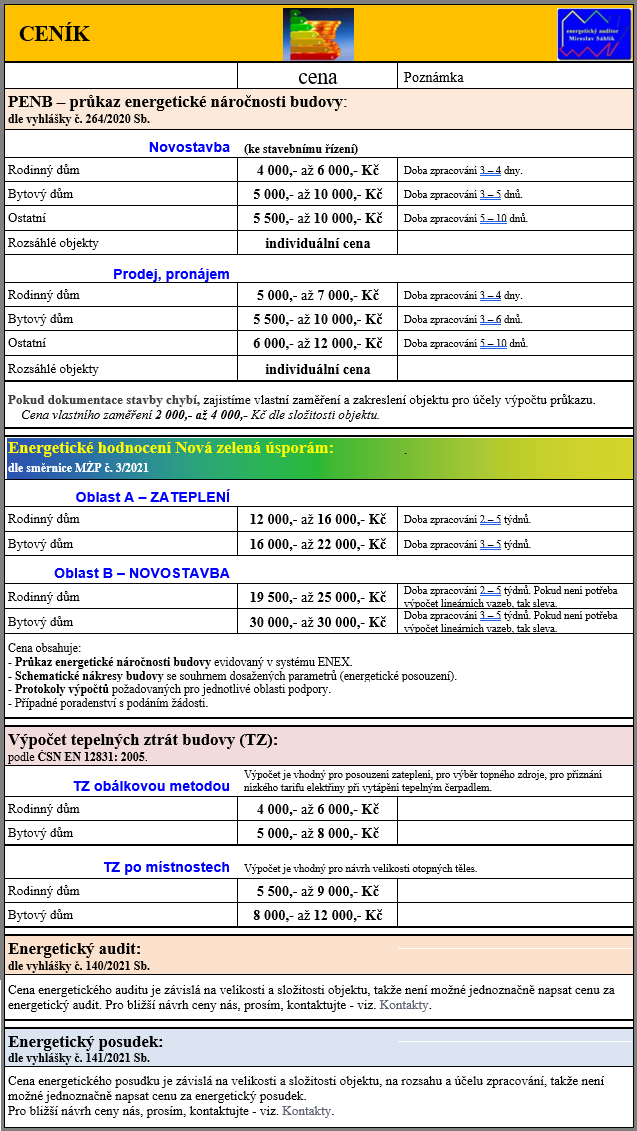
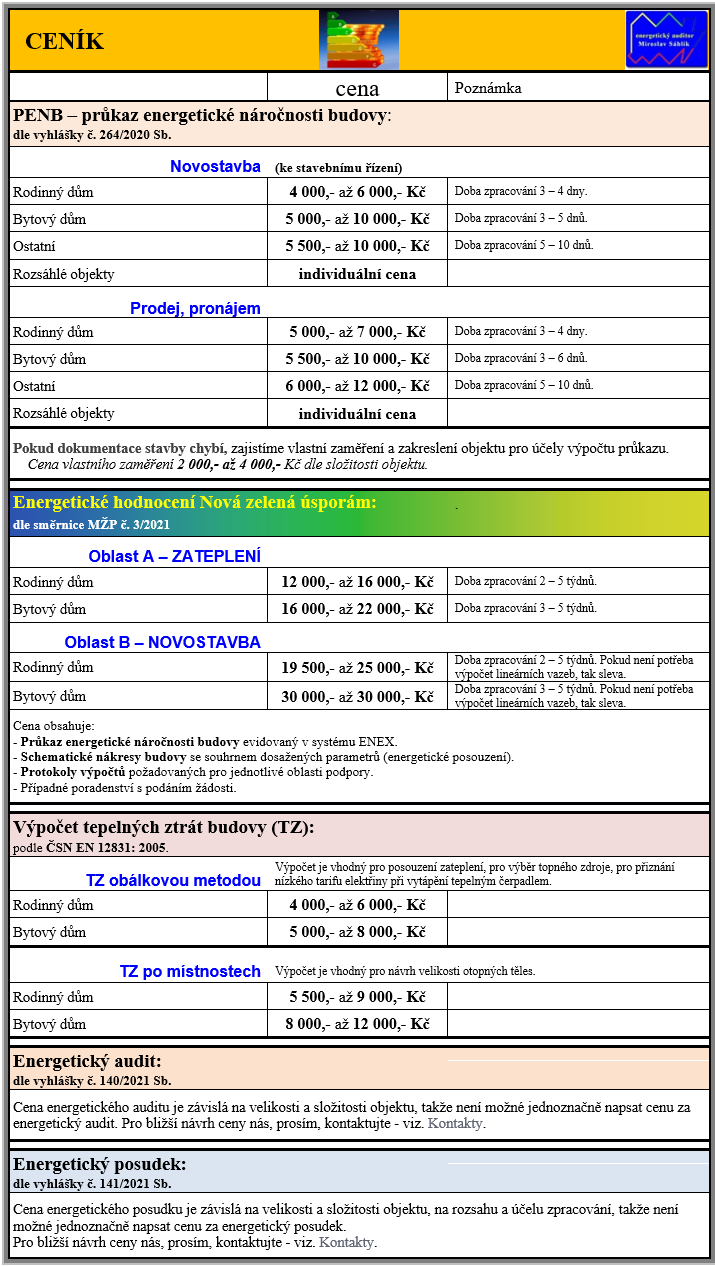
Add files via upload

Changed region(s): [[0.0, 0.0, 1.0, 1.0]]

diff --git a/dfm2html.css b/dfm2html.css
@@ -397,8 +397,8 @@ div,span,img,a,form,body,label {border-width:1px;border-color:black}
 .Link47_nm {background-image:url('Link47_nm.gif'); }
 .Link54_nm {border-width:1px; border-left-style:none; border-right-style:none; border-bottom-style:none; }
 .Link50_nm {background-image:url('Link50_nm.gif'); }
+.Link370_nm {color:#9E7947; font-family:"Book Antiqua"; font-size:14px; font-weight:bold; line-height:180%; text-align:left; text-decoration:none; text-indent:16px; vertical-align:middle; cursor:pointer; }
 .Link38_nm {background-image:url('Link38_nm.gif'); }
-.Link367_nm {background-image:url('Link367_nm.gif'); border-right-style:solid; }
 .Link368_nm {background-image:url('Link368_nm.png'); }
 .Link369_nm {color:Blue; font-family:"Times New Roman"; font-size:12px; }
 .Link42_nm {background-image:url('Image25_nm.png'); }
@@ -429,45 +429,45 @@ div,span,img,a,form,body,label {border-width:1px;border-color:black}
 .Link62_nm {border-width:4px; border-style:double; }
 .Link63_nm {border-width:4px; border-style:double; }
 .Link64_nm {border-width:4px; border-style:double; }
-.Link366_nm {background-color:#AAF3FF; background-image:url('Link127_nm.png'); background-repeat:repeat-x; color:White; padding:0px; text-align:left; text-decoration:none; }
+.Link367_nm {background-image:url('Link367_nm.gif'); border-right-style:solid; }
 .Link336_nm {border-right-style:solid; }
 .Link337_nm {background-image:url('Image70_nm.gif'); }
-.Link332_nm {border-right-style:solid; }
 .Link334_nm {background-image:url('Link164_nm.gif'); }
-.Link340_nm {color:#49630E; font-size:10px; font-weight:bold; }
 .Link341_nm {color:#49630E; font-size:10px; font-weight:bold; }
+.Link343_nm {color:Blue; font-family:"Times New Roman"; font-size:12px; }
 .Link339_nm {background-image:url('Image71_nm.gif'); }
 .Link34_nm {background-image:url('Link34_nm.gif'); }
+.Link340_nm {color:#49630E; font-size:10px; font-weight:bold; }
 .Link325_nm {color:Blue; font-family:"Times New Roman"; font-size:12px; }
-.Link321_nm {background-image:url('Image71_nm.gif'); }
+.Link327_nm {border-style:solid; border-left-width:1px; border-left-style:none; border-bottom-style:none; border-top-style:none; }
 .Link322_nm {background-image:url('Image103_nm.png'); }
 .Link323_nm {color:Blue; font-family:"Times New Roman"; font-size:12px; }
 .Link330_nm {color:#FF5F00; font-family:"Times New Roman"; font-size:14px; font-weight:bold; text-decoration:underline; }
 .Link331_nm {border-right-style:solid; }
-.Link327_nm {border-style:solid; border-left-width:1px; border-left-style:none; border-bottom-style:none; border-top-style:none; }
+.Link332_nm {border-right-style:solid; }
 .Link328_nm {border-style:solid; border-left-width:1px; border-left-style:none; border-bottom-style:none; border-top-style:none; }
-.Link343_nm {color:Blue; font-family:"Times New Roman"; font-size:12px; }
-.Link358_nm {border-width:1px; border-left-style:none; border-right-style:none; border-bottom-style:none; }
+.Link344_nm {background-image:url('Image77_nm.png'); }
 .Link359_nm {border-width:1px; border-left-style:none; border-right-style:none; border-bottom-style:none; }
-.Link36_nm {color:#9E7947; font-family:"Book Antiqua"; font-size:12px; font-weight:bold; line-height:187%; text-align:left; text-decoration:none; text-indent:11px; vertical-align:middle; cursor:pointer; }
-.Link355_nm {border-style:solid; border-left-width:1px; border-bottom-style:none; border-top-style:none; }
+.Link36_nm {color:#9E7947; font-family:"Book Antiqua"; font-size:14px; font-weight:bold; line-height:180%; text-align:left; text-decoration:none; text-indent:16px; vertical-align:middle; cursor:pointer; }
+.Link360_nm {border-left-style:none; }
 .Link356_nm {border-width:1px; border-left-style:none; border-right-style:none; border-bottom-style:none; }
 .Link357_nm {border-width:1px; border-left-style:none; border-right-style:none; border-bottom-style:none; }
-.Link363_nm {background-color:#ABF4FF; background-image:url('Link127_nm.png'); background-repeat:repeat-x; color:White; padding:1px; text-align:left; text-decoration:none; }
+.Link358_nm {border-width:1px; border-left-style:none; border-right-style:none; border-bottom-style:none; }
 .Link364_nm {background-color:#ABF4FF; background-image:url('Link127_nm.png'); background-repeat:repeat-x; color:White; padding:0px; text-align:left; text-decoration:none; }
 .Link365_nm {background-color:#33DBFF; background-image:url('Link127_nm.png'); background-repeat:repeat-x; color:White; text-align:left; text-decoration:none; }
-.Link360_nm {border-left-style:none; }
+.Link366_nm {background-color:#AAF3FF; background-image:url('Link127_nm.png'); background-repeat:repeat-x; color:White; padding:0px; text-align:left; text-decoration:none; }
 .Link361_nm {border-right-style:solid; }
 .Link362_nm {color:#9E7947; font-family:"Book Antiqua"; font-size:14px; font-weight:bold; line-height:180%; text-align:left; text-decoration:none; text-indent:16px; vertical-align:middle; cursor:pointer; }
-.Link347_nm {color:Blue; font-family:"Times New Roman"; font-size:12px; }
+.Link363_nm {background-color:#ABF4FF; background-image:url('Link127_nm.png'); background-repeat:repeat-x; color:White; padding:1px; text-align:left; text-decoration:none; }
 .Link348_nm {background-image:url('Image103_nm.png'); }
 .Link349_nm {color:Blue; font-family:"Times New Roman"; font-size:12px; }
-.Link344_nm {background-image:url('Image77_nm.png'); }
 .Link345_nm {background-image:url('Image77_nm.png'); }
 .Link346_nm {color:Blue; font-family:"Times New Roman"; font-size:12px; }
-.Link352_nm {border-width:1px; border-left-style:solid; border-right-style:solid; border-bottom-style:none; }
+.Link347_nm {color:Blue; font-family:"Times New Roman"; font-size:12px; }
 .Link353_nm {border-style:solid; border-left-width:1px; border-bottom-style:none; border-top-style:none; }
 .Link354_nm {border-width:1px; border-left-style:solid; border-right-style:solid; border-bottom-style:solid; }
+.Link355_nm {border-style:solid; border-left-width:1px; border-bottom-style:none; border-top-style:none; }
+.Link352_nm {border-width:1px; border-left-style:solid; border-right-style:solid; border-bottom-style:none; }
 .Panel30_nm {border:1px #6F9B1C solid; border-bottom-color:#6F9B1C; border-bottom-style:solid; margin:0px; padding:0px; }
 .Panel31_nm {border:1px #6F9B1C solid; border-bottom-color:#6F9B1C; border-bottom-style:solid; margin:0px; padding:0px; }
 .Panel32_nm {border-bottom-width:2px; border-bottom-style:solid; border-top-style:solid; }
@@ -542,6 +542,7 @@ div,span,img,a,form,body,label {border-width:1px;border-color:black}
 .Page16_nm {background-image:url('Page8_nm.png'); background-repeat:repeat; }
 .Page2_nm {background-color:White; border-color:#6F9B1C; border-style:none; border-right-style:solid; border-bottom-color:#6F9B1C; }
 .Page3_nm {background-color:White; border-color:#6F9B1C; border-style:none; }
+.Link321_nm {background-image:url('Image71_nm.gif'); }
 .Link201_nm {border-width:1px; border-left-style:none; border-right-style:none; border-bottom-style:none; }
 .Link202_nm {background-image:url('Link202_nm.png'); }
 .Link2_nm {background-image:url('Image25_nm.png'); }
@@ -566,9 +567,9 @@ div,span,img,a,form,body,label {border-width:1px;border-color:black}
 .Link220_nm {background-image:url('Image51_nm.png'); }
 .Link221_nm {background-image:url('Image51_nm.png'); }
 .Link222_nm {background-image:url('Image51_nm.png'); }
-.Link229_nm {color:#9E7947; font-family:"Book Antiqua"; font-size:12px; font-weight:bold; line-height:187%; text-align:left; text-decoration:none; text-indent:11px; vertical-align:middle; cursor:pointer; }
 .Link23_nm {border-width:1px; border-left-style:none; border-right-style:none; border-bottom-style:none; }
 .Link230_nm {color:#49630E; font-size:10px; font-weight:bold; }
+.Link231_nm {color:#49630E; font-size:10px; font-weight:bold; }
 .Link226_nm {color:Blue; font-family:"Times New Roman"; font-size:12px; }
 .Link227_nm {color:Blue; font-family:"Times New Roman"; font-size:12px; }
 .Link228_nm {color:Blue; font-family:"Times New Roman"; font-size:12px; }
@@ -610,74 +611,73 @@ div,span,img,a,form,body,label {border-width:1px;border-color:black}
 .Link183_nm {border-style:solid; border-left-width:1px; border-left-style:none; border-bottom-style:none; border-top-style:none; }
 .Link168_nm {border-style:solid; border-left-width:1px; border-left-style:none; border-bottom-style:none; border-top-style:none; }
 .Link169_nm {background-image:url('Link169_nm.gif'); }
-.Link17_nm {color:#9E7947; font-family:"Book Antiqua"; font-size:14px; font-weight:bold; line-height:180%; text-align:left; text-decoration:none; text-indent:16px; vertical-align:middle; cursor:pointer; }
+.Link17_nm {color:#9E7947; font-family:"Book Antiqua"; font-size:14px; font-weight:bold; letter-spacing:normal; line-height:188%; text-align:left; text-decoration:none; text-indent:12px; vertical-align:middle; cursor:pointer; }
 .Link166_nm {border-style:solid; border-left-width:1px; border-left-style:none; border-bottom-style:none; border-top-style:none; }
 .Link173_nm {color:#FF5F00; font-family:"Times New Roman"; font-size:14px; font-weight:bold; text-decoration:underline; }
 .Link172_nm {border-style:solid; border-left-width:1px; border-left-style:none; border-bottom-style:none; border-top-style:none; }
-.Link290_nm {background-image:url('Link367_nm.gif'); border-right-style:solid; }
 .Link292_nm {color:#49630E; font-size:10px; font-weight:bold; }
-.Link288_nm {background-image:url('Image31_nm.png'); }
+.Link293_nm {color:#49630E; font-size:10px; font-weight:bold; }
 .Link289_nm {background-image:url('Link202_nm.png'); }
+.Link290_nm {background-image:url('Link367_nm.gif'); border-right-style:solid; }
 .Link297_nm {background-image:url('Image103_nm.png'); }
 .Link298_nm {color:Blue; font-family:"Times New Roman"; font-size:12px; }
-.Link293_nm {color:#49630E; font-size:10px; font-weight:bold; }
+.Link299_nm {background-image:url('Link299_nm.png'); }
 .Link295_nm {border-right-style:solid; }
-.Link28_nm {background-image:url('Link28_nm.jpg'); }
 .Link280_nm {color:Blue; font-family:"Times New Roman"; font-size:12px; }
 .Link281_nm {color:Blue; font-family:"Times New Roman"; font-size:12px; }
-.Link277_nm {color:#49630E; font-size:10px; font-weight:bold; }
-.Link279_nm {border-right-style:solid; }
-.Link285_nm {color:Blue; font-family:"Times New Roman"; font-size:12px; }
-.Link287_nm {color:Blue; font-family:"Times New Roman"; font-size:12px; }
 .Link282_nm {color:#FF5F00; font-family:"Times New Roman"; font-size:14px; font-weight:bold; text-decoration:underline; }
-.Link299_nm {background-image:url('Link299_nm.png'); }
-.Link312_nm {border-style:solid; border-left-width:1px; border-left-style:none; border-bottom-style:none; border-top-style:none; }
+.Link279_nm {border-right-style:solid; }
+.Link28_nm {background-image:url('Link28_nm.jpg'); }
+.Link287_nm {color:Blue; font-family:"Times New Roman"; font-size:12px; }
+.Link288_nm {background-image:url('Image31_nm.png'); }
+.Link285_nm {color:Blue; font-family:"Times New Roman"; font-size:12px; }
 .Link314_nm {color:#FF5F00; font-family:"Times New Roman"; font-size:14px; font-weight:bold; text-decoration:underline; }
-.Link31_nm {border-width:1px; border-left-style:none; border-right-style:none; border-bottom-style:none; }
+.Link315_nm {background-image:url('Link202_nm.png'); }
 .Link310_nm {border-right-style:solid; }
 .Link311_nm {border-style:solid; border-left-width:1px; border-left-style:none; border-bottom-style:none; border-top-style:none; }
-.Link318_nm {background-image:url('Link213_nm.png'); border-right-style:solid; }
+.Link312_nm {border-style:solid; border-left-width:1px; border-left-style:none; border-bottom-style:none; border-top-style:none; }
 .Link319_nm {background-image:url('Image70_nm.gif'); }
-.Link315_nm {background-image:url('Link202_nm.png'); }
 .Link316_nm {border-right-style:solid; }
 .Link317_nm {background-image:url('Link164_nm.gif'); }
+.Link318_nm {background-image:url('Link213_nm.png'); border-right-style:solid; }
+.Link304_nm {background-image:url('Image53_nm.png'); }
 .Link30_nm {border-style:solid; border-left-width:1px; border-left-style:none; border-bottom-style:none; border-top-style:none; }
 .Link300_nm {background-image:url('Link300_nm.png'); }
-.Link307_nm {background-image:url('Image88_nm.png'); }
 .Link308_nm {background-image:url('Image88_nm.png'); }
 .Link309_nm {background-image:url('Image88_nm.png'); }
-.Link304_nm {background-image:url('Image53_nm.png'); }
+.Link31_nm {border-width:1px; border-left-style:none; border-right-style:none; border-bottom-style:none; }
 .Link305_nm {background-image:url('Link202_nm.png'); }
 .Link306_nm {background-image:url('Link202_nm.png'); }
-.Link276_nm {color:#49630E; font-size:10px; font-weight:bold; }
-.Link245_nm {color:Blue; font-family:"Times New Roman"; font-size:12px; }
+.Link307_nm {background-image:url('Image88_nm.png'); }
+.Link277_nm {color:#49630E; font-size:10px; font-weight:bold; }
 .Link246_nm {color:Blue; font-family:"Times New Roman"; font-size:12px; }
 .Link247_nm {border-right-style:solid; }
+.Link248_nm {border-style:solid; border-left-width:1px; border-left-style:none; border-bottom-style:none; border-top-style:none; }
 .Link243_nm {background-image:url('Link164_nm.gif'); }
 .Link244_nm {color:#FF5F00; font-family:"Times New Roman"; font-size:14px; font-weight:bold; text-decoration:underline; }
-.Link250_nm {color:#49630E; font-size:10px; font-weight:bold; }
+.Link245_nm {color:Blue; font-family:"Times New Roman"; font-size:12px; }
 .Link252_nm {background-image:url('Link252_nm.gif'); }
-.Link248_nm {border-style:solid; border-left-width:1px; border-left-style:none; border-bottom-style:none; border-top-style:none; }
+.Link253_nm {background-image:url('Link253_nm.gif'); }
 .Link249_nm {color:#49630E; font-size:10px; font-weight:bold; }
-.Link231_nm {color:#49630E; font-size:10px; font-weight:bold; }
+.Link250_nm {color:#49630E; font-size:10px; font-weight:bold; }
 .Link232_nm {background-image:url('Link232_nm.gif'); }
 .Link240_nm {border-style:solid; border-left-width:1px; border-left-style:none; border-bottom-style:none; border-top-style:none; }
 .Link241_nm {border-right-style:solid; }
 .Link238_nm {border-style:solid; border-left-width:1px; border-left-style:none; border-bottom-style:none; border-top-style:none; }
 .Link239_nm {border-right-style:solid; }
-.Link253_nm {background-image:url('Link253_nm.gif'); }
-.Link268_nm {background-image:url('Link268_nm.gif'); }
+.Link270_nm {color:#49630E; font-size:10px; font-weight:bold; }
 .Link267_nm {background-image:url('Link267_nm.gif'); }
-.Link273_nm {color:#49630E; font-size:10px; font-weight:bold; }
+.Link268_nm {background-image:url('Link268_nm.gif'); }
 .Link274_nm {color:#49630E; font-size:10px; font-weight:bold; }
 .Link275_nm {color:#49630E; font-size:10px; font-weight:bold; }
-.Link270_nm {color:#49630E; font-size:10px; font-weight:bold; }
+.Link276_nm {color:#49630E; font-size:10px; font-weight:bold; }
 .Link271_nm {color:#49630E; font-size:10px; font-weight:bold; }
 .Link272_nm {color:#49630E; font-size:10px; font-weight:bold; }
-.Link257_nm {color:Blue; font-family:"Times New Roman"; font-size:12px; }
+.Link273_nm {color:#49630E; font-size:10px; font-weight:bold; }
 .Link258_nm {border-right-style:solid; }
 .Link255_nm {color:#49630E; font-size:10px; font-weight:bold; }
 .Link256_nm {color:#49630E; font-size:10px; font-weight:bold; }
+.Link257_nm {color:Blue; font-family:"Times New Roman"; font-size:12px; }
 .Link263_nm {background-image:url('Link263_nm.gif'); }
 .Link264_nm {background-image:url('Link264_nm.gif'); }
 .Label1195_nm {color:Blue; font-family:"Times New Roman"; font-size:18px; font-weight:bold; }
@@ -1450,16 +1450,16 @@ div,span,img,a,form,body,label {border-width:1px;border-color:black}
 .Link13_ov {color:#FD0909; text-decoration:underline; cursor:pointer; }
 .Link127_ov {background-image:url('Link127_dn.png'); background-repeat:repeat-x; color:Yellow; }
 .Link128_ov {background-image:url('Link127_dn.png'); background-repeat:repeat-x; color:Yellow; }
+.Link370_ov {color:#FD0909; text-decoration:underline; cursor:pointer; }
 .Link4_ov {color:#FD0909; text-decoration:underline; cursor:pointer; }
-.Link366_ov {background-image:url('Link127_dn.png'); background-repeat:repeat-x; color:Yellow; }
 .Link36_ov {color:#FD0909; text-decoration:underline; cursor:pointer; }
-.Link363_ov {background-image:url('Link127_dn.png'); background-repeat:repeat-x; color:Yellow; }
 .Link364_ov {background-image:url('Link127_dn.png'); background-repeat:repeat-x; color:Yellow; }
 .Link365_ov {background-image:url('Link127_dn.png'); background-repeat:repeat-x; color:Yellow; }
+.Link366_ov {background-image:url('Link127_dn.png'); background-repeat:repeat-x; color:Yellow; }
 .Link362_ov {color:#FD0909; text-decoration:underline; cursor:pointer; }
+.Link363_ov {background-image:url('Link127_dn.png'); background-repeat:repeat-x; color:Yellow; }
 .Link9_ov {color:#FD0909; text-decoration:underline; cursor:pointer; }
 .Link20_ov {color:#FD0909; text-decoration:underline; cursor:pointer; }
-.Link229_ov {color:#FD0909; text-decoration:underline; cursor:pointer; }
 .Link21_ov {color:#FD0909; text-decoration:underline; cursor:pointer; }
 .Link17_ov {color:#FD0909; text-decoration:underline; cursor:pointer; }
 .Link11_dn {color:#9E7947; text-decoration:underline; }
@@ -1471,16 +1471,16 @@ div,span,img,a,form,body,label {border-width:1px;border-color:black}
 .Link13_dn {color:#9E7947; text-decoration:underline; }
 .Link127_dn {background-image:url('Link127_dn.png'); background-repeat:repeat-x; color:Red; font-weight:bold; }
 .Link128_dn {background-image:url('Link127_dn.png'); background-repeat:repeat-x; color:Red; font-size:16px; font-weight:bold; }
+.Link370_dn {color:#9E7947; text-decoration:underline; }
 .Link4_dn {color:#9E7947; text-decoration:underline; }
-.Link366_dn {background-image:url('Link127_dn.png'); background-repeat:repeat-x; color:Red; font-weight:bold; }
 .Link36_dn {color:#9E7947; text-decoration:underline; }
-.Link363_dn {background-image:url('Link127_dn.png'); background-repeat:repeat-x; color:Red; font-weight:bold; }
 .Link364_dn {background-image:url('Link127_dn.png'); background-repeat:repeat-x; color:Red; font-weight:bold; }
 .Link365_dn {background-image:url('Link127_dn.png'); background-repeat:repeat-x; color:Red; font-size:16px; font-weight:bold; }
+.Link366_dn {background-image:url('Link127_dn.png'); background-repeat:repeat-x; color:Red; font-weight:bold; }
 .Link362_dn {color:#9E7947; text-decoration:underline; }
+.Link363_dn {background-image:url('Link127_dn.png'); background-repeat:repeat-x; color:Red; font-weight:bold; }
 .Link9_dn {color:#9E7947; text-decoration:underline; }
 .Link20_dn {color:#9E7947; text-decoration:underline; }
-.Link229_dn {color:#9E7947; text-decoration:underline; }
 .Link21_dn {color:#9E7947; text-decoration:underline; }
 .Link17_dn {color:#9E7947; text-decoration:underline; }
 .Link11_od {border-width:1px; border-style:none; color:#FD9109; }
@@ -1492,16 +1492,16 @@ div,span,img,a,form,body,label {border-width:1px;border-color:black}
 .Link13_od {border-width:1px; border-style:none; color:#FD9109; }
 .Link127_od {border-style:none; text-decoration:underline; }
 .Link128_od {text-decoration:underline; }
+.Link370_od {border-width:1px; border-style:none; color:#FD9109; }
 .Link4_od {border-width:1px; border-style:none; color:#FD9109; }
-.Link366_od {text-decoration:underline; }
 .Link36_od {border-width:1px; border-style:none; color:#FD9109; }
-.Link363_od {border-style:none; text-decoration:underline; }
 .Link364_od {border-style:none; text-decoration:underline; }
 .Link365_od {text-decoration:underline; }
+.Link366_od {text-decoration:underline; }
 .Link362_od {border-width:1px; border-style:none; color:#FD9109; }
+.Link363_od {border-style:none; text-decoration:underline; }
 .Link9_od {border-width:1px; border-style:none; color:#FD9109; }
 .Link20_od {border-width:1px; border-style:none; color:#FD9109; }
-.Link229_od {border-width:1px; border-style:none; color:#FD9109; }
 .Link21_od {border-width:1px; border-style:none; color:#FD9109; }
 .Link17_od {border-width:1px; border-style:none; color:#FD9109; }
 .fill {position:absolute;z-index:-99;padding:0;}
